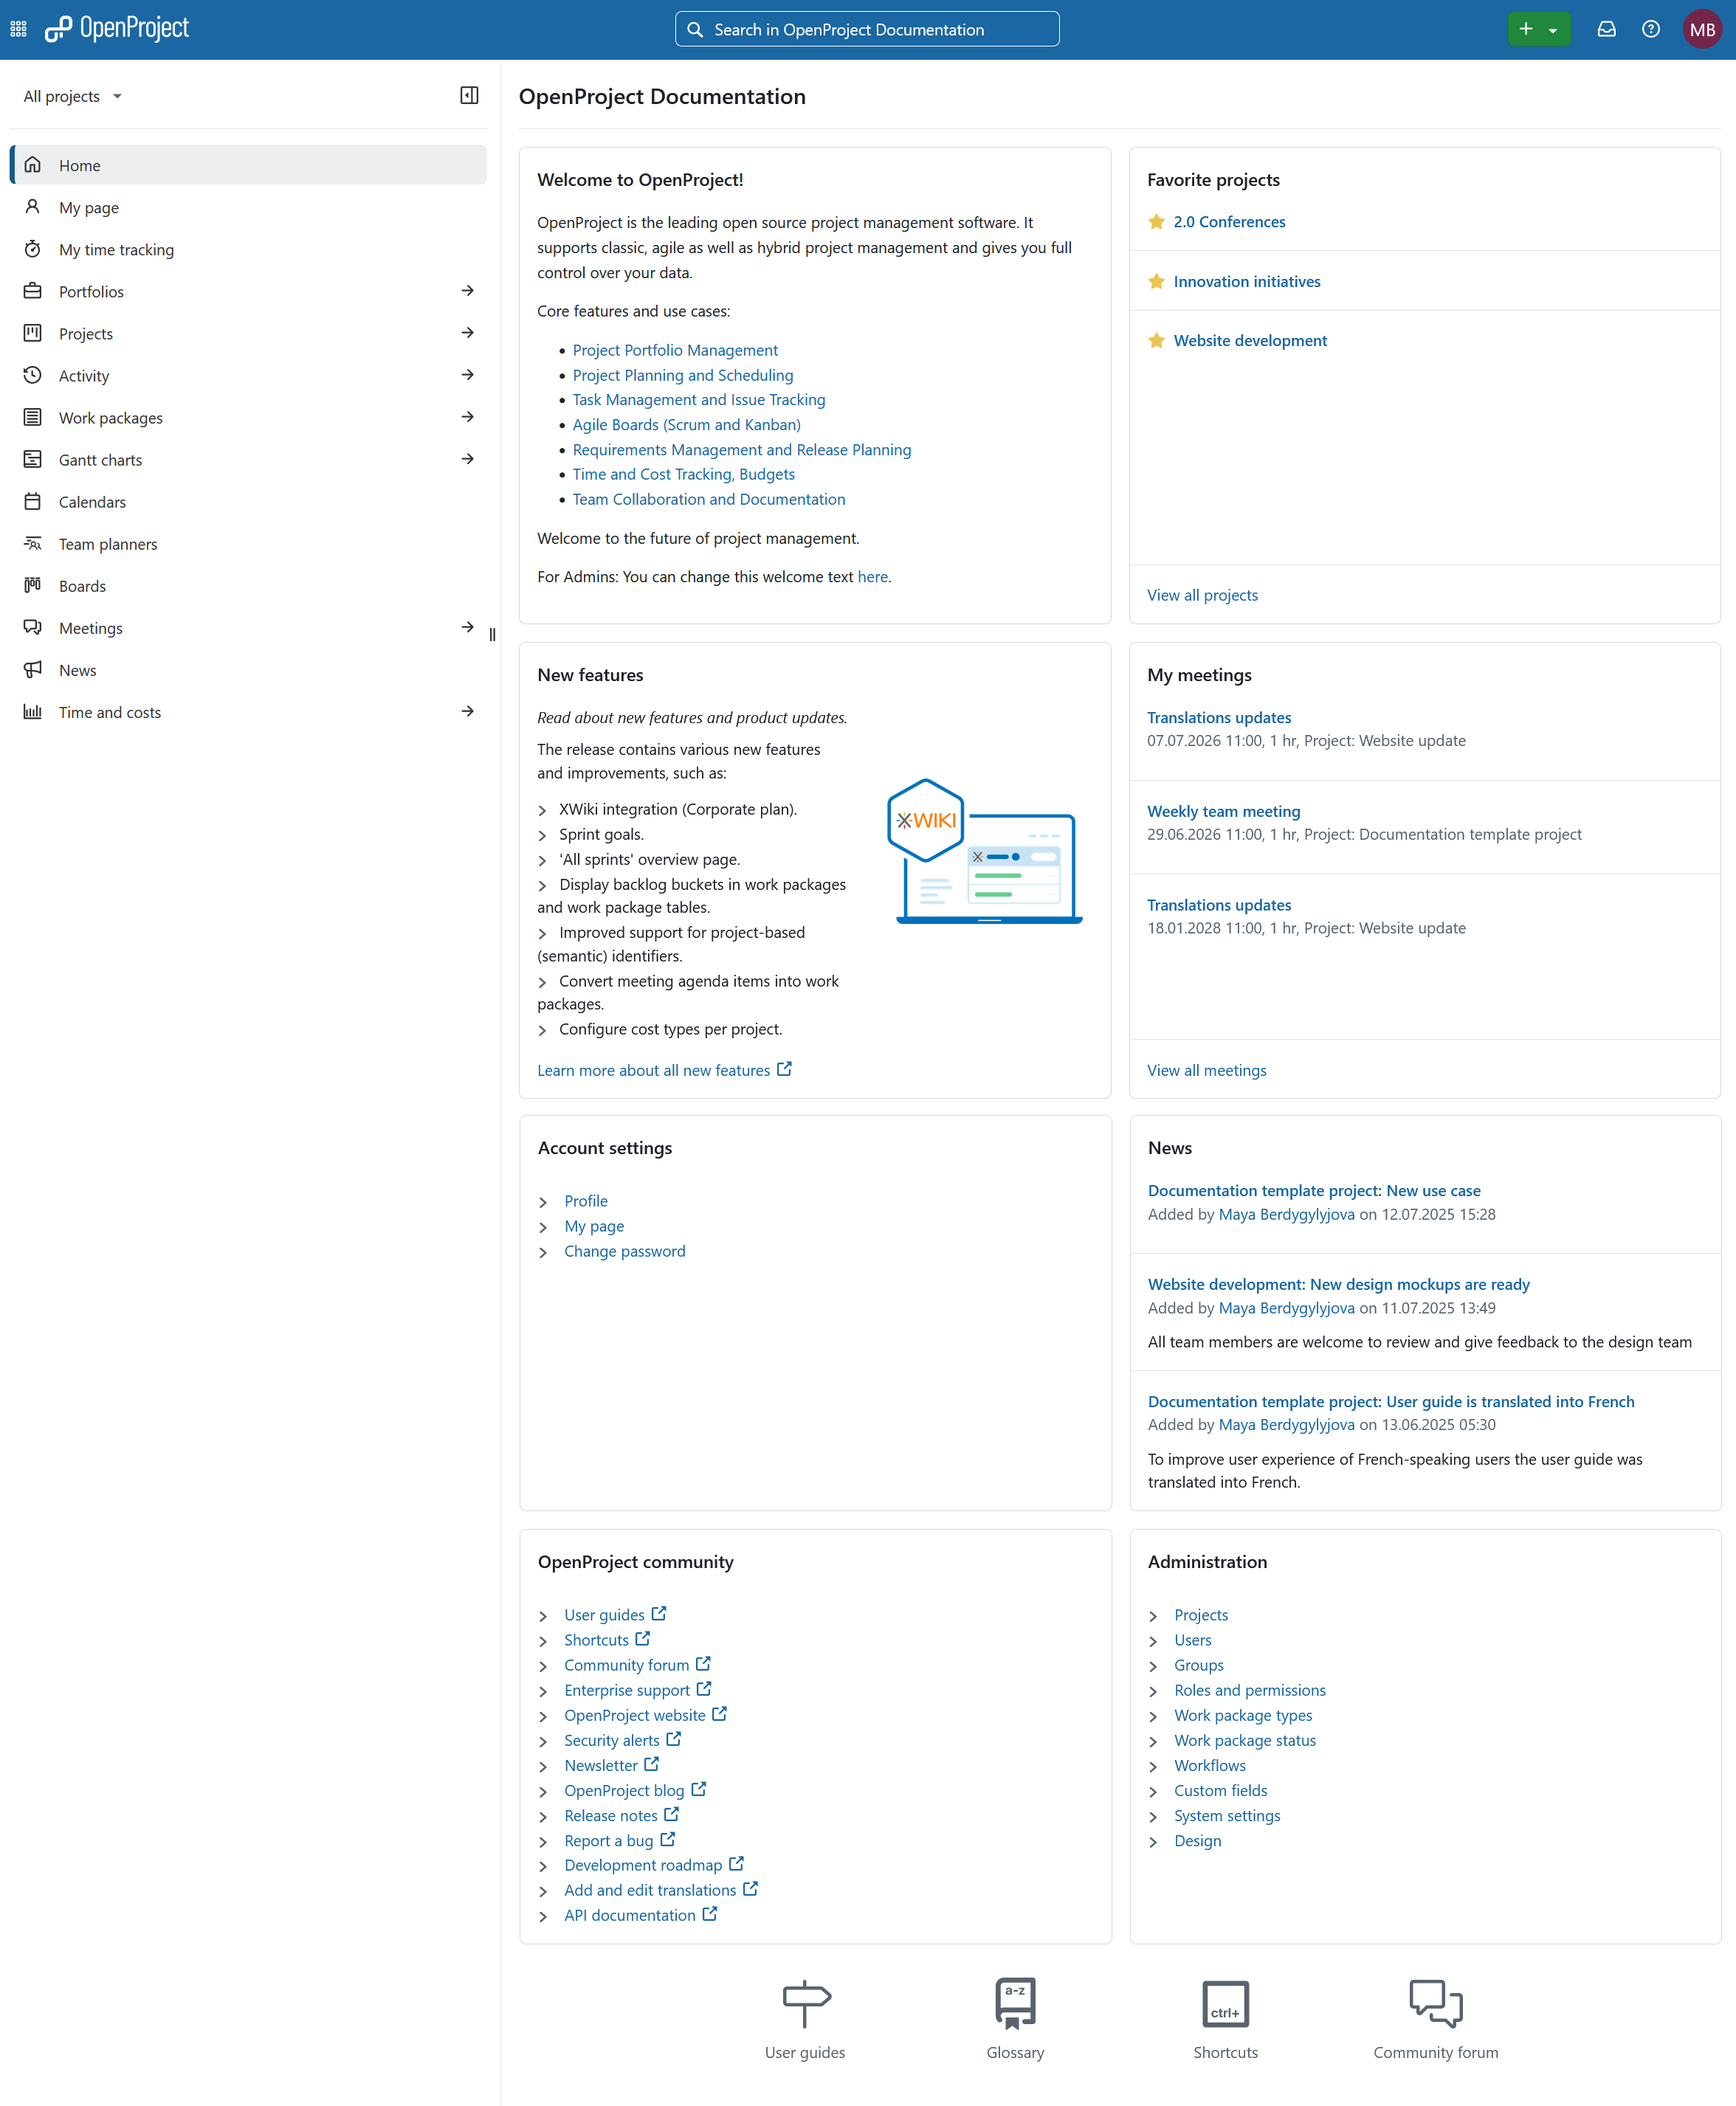
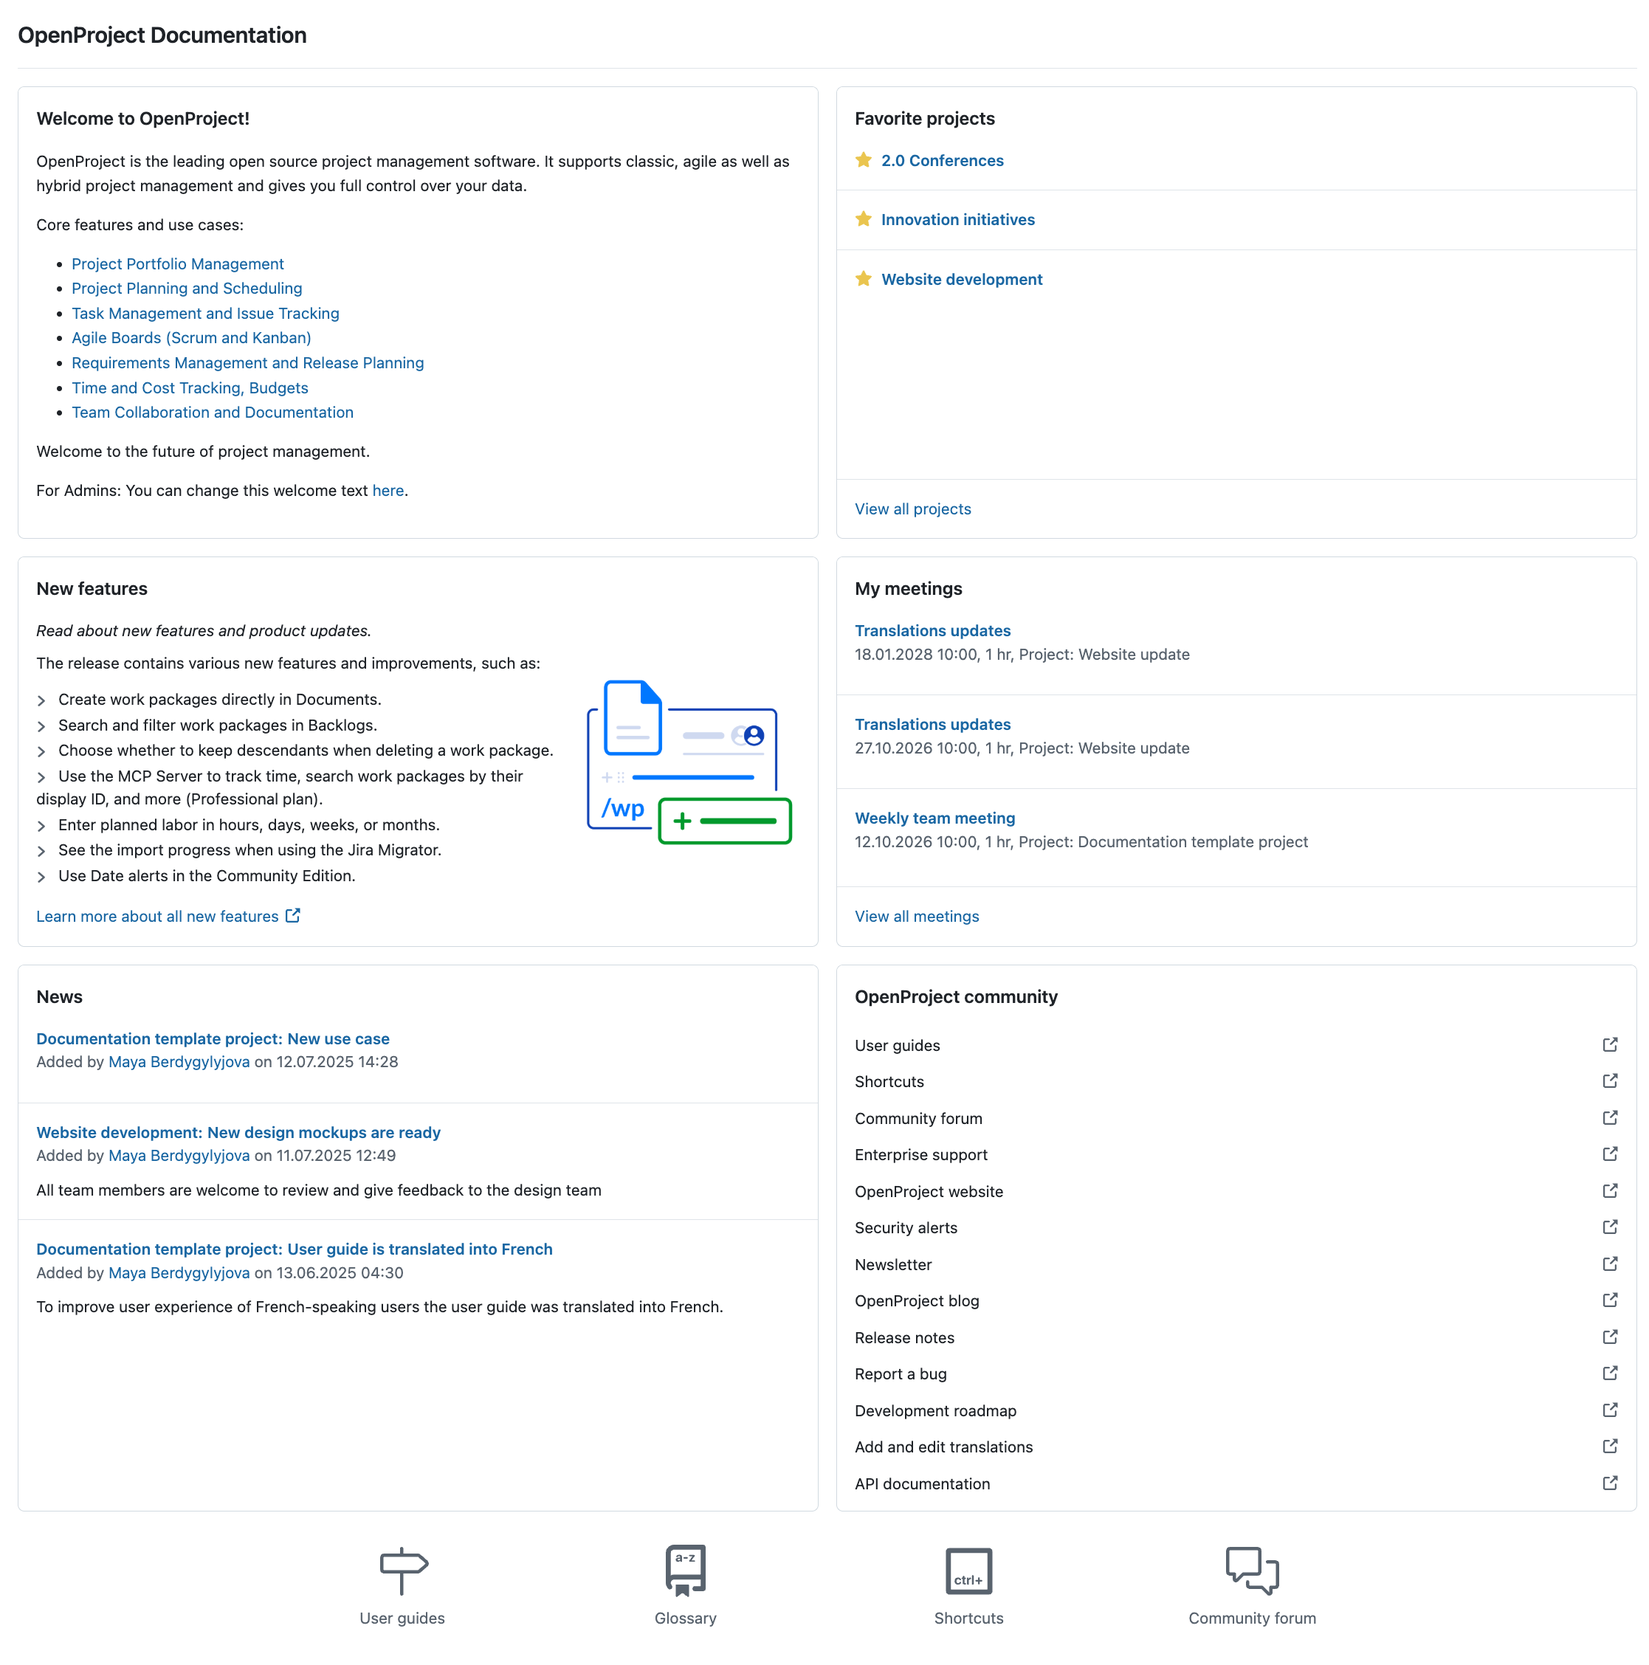
Adapt docs to updated widgets on the home page

diff --git a/docs/user-guide/home/README.md b/docs/user-guide/home/README.md
@@ -44,9 +44,7 @@ In the center/main part of the page, there are widgets:
 - The **Favorite projects widget** displays your favorite projects.
 - The **New features widget** displays feature announcements and developments of the latest releases of OpenProject.
 - The **My meetings widget** displays all scheduled meetings in which you are a participant.
-- The **Account settings widget** links to important account settings, such as the [user profile](../../user-guide/account-settings/account/#user-attributes), the [My page](../../getting-started/my-page/), and the [change password](../../getting-started/sign-in-registration/#reset-your-password) section.
 - The **News widget** displays latest news from all your projects. Click on the link of the news to read the details.
 - The **OpenProject Community widget** displays links to important community information, such as release notes, forum, or the API documentation.
-- **Administration widget** displays links to important system administration resources. Also, the [application security badge](../../system-admin-guide/system-settings/general-settings/) will be displayed when activated. 
 
 At the bottom of the page, there are links to additional resources: **User guides, Glossary, Shortcuts, and the Community forum**.
